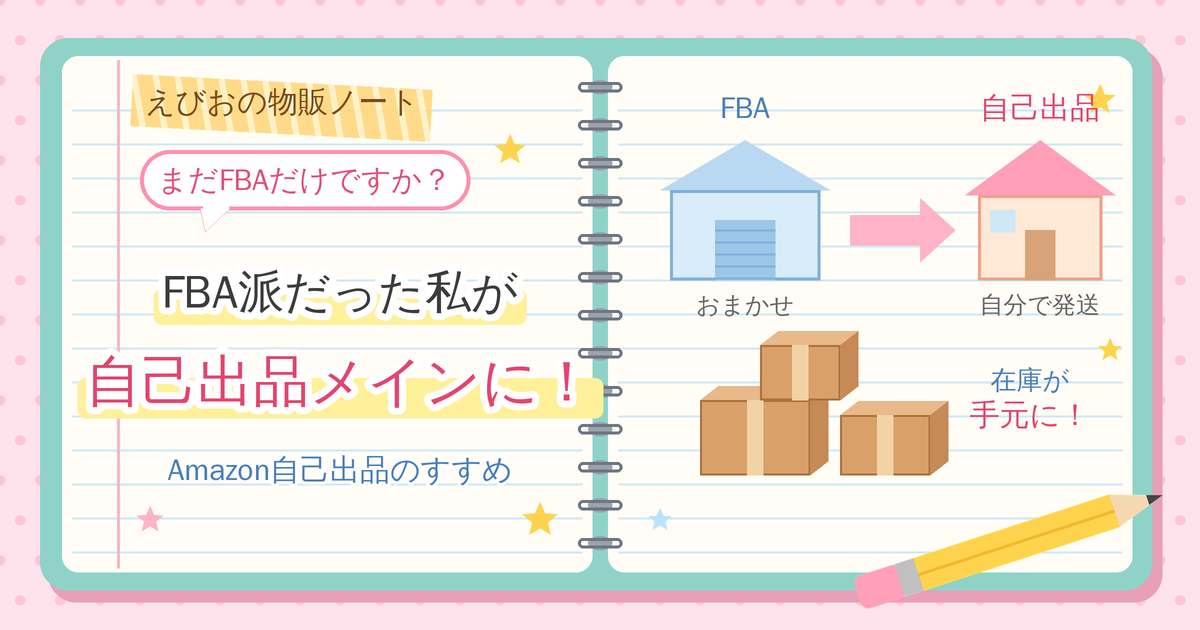
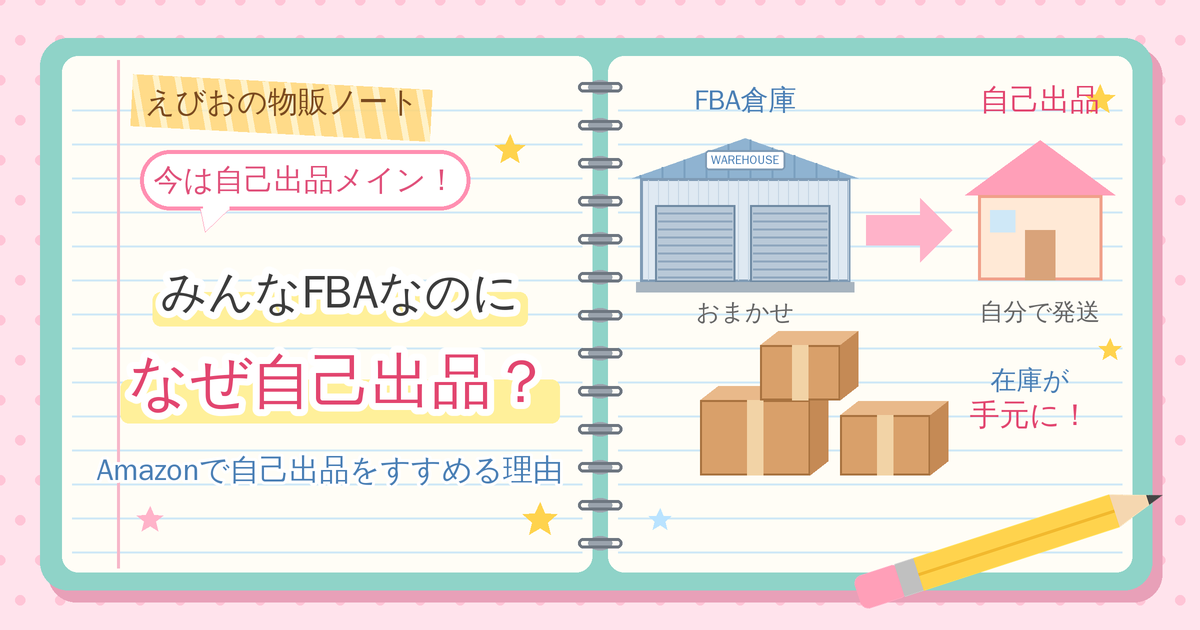
自己出品のすすめ：えびおの体験を入れ、タイトルを3案目に。アイキャッチを倉庫の絵に描き直し
Claude-Session: https://claude.ai/code/session_01Kz2YtFYjgrN5FwR973HB32

diff --git a/posts/2026-10-23-jiko-shuppin.html b/posts/2026-10-23-jiko-shuppin.html
@@ -1,8 +1,8 @@
 <!--
-タイトル案：
-1. FBAメインだった私が、今は自己出品メイン！Amazon自己出品のすすめ
-2. Amazonせどりは自己出品が面白い！FBA派だったえびおが乗りかえた理由
-3. みんなFBAなのに、なぜ自己出品？Amazonで自己出品をすすめる理由
+決まったタイトル：みんなFBAなのに、なぜ自己出品？Amazonで自己出品をすすめる理由
+タイトル案1：FBAメインだった私が、今は自己出品メイン！Amazon自己出品のすすめ
+タイトル案2：Amazonせどりは自己出品が面白い！FBA派だったえびおが乗りかえた理由
+タイトル案3：みんなFBAなのに、なぜ自己出品？Amazonで自己出品をすすめる理由
 カテゴリー：せどり（4）
 スラッグ：jiko-shuppin
 -->
@@ -84,11 +84,15 @@
 <!-- /wp:list -->
 
 <!-- wp:paragraph -->
-<p>特に、昼間は本業がある副業の人にとって「発送しなくていい」のは大きいです。仕入れと納品だけに集中できるので、時間がない人ほど助かります。</p>
+<p>私も副業のころは、FBAにずいぶん助けられました。一度倉庫に送ってしまえば、あとは全部Amazonがやってくれます。</p>
 <!-- /wp:paragraph -->
 
 <!-- wp:paragraph -->
-<p><mark style="background-color:rgba(0, 0, 0, 0);color:#c00000" class="has-inline-color"><strong>【要確認：ここにえびおの体験（副業のころ、FBAで助かったこと）】</strong></mark></p>
+<p>どこかに出かけていても、注文が入ってあたふたすることはまったくありません。半分自動のようなものなので、時間の面では本当にFBAでよかったと思っています。</p>
+<!-- /wp:paragraph -->
+
+<!-- wp:paragraph -->
+<p>昼間は本業がある副業の人なら、<mark style="background-color:#fff09a" class="has-inline-color">FBAを使うのは、むしろ当然</mark>だと感じます。</p>
 <!-- /wp:paragraph -->
 
 <!-- wp:html -->
@@ -99,114 +103,144 @@
 <p>ただし、FBAは便利なぶん、手数料がかかります。商品を発送してもらう「配送代行手数料」や、倉庫に置いておく「在庫保管手数料」などです。</p>
 <!-- /wp:paragraph -->
 
-<!-- wp:paragraph -->
-<p>2026年には、標準サイズの配送代行手数料が少し下がった一方で、12か月より長く倉庫にある商品には「長期在庫追加手数料」がかかるようになりました。<mark style="background-color:rgba(0, 0, 0, 0);color:#c00000" class="has-inline-color"><strong>【要確認：手数料の改定の中身と時期が今も同じか（セラーセントラルのお知らせで確認）】</strong></mark></p>
-<!-- /wp:paragraph -->
-
 <!-- wp:heading -->
 <h2 class="wp-block-heading">自己出品のメリット</h2>
 <!-- /wp:heading -->
 
 <!-- wp:paragraph -->
-<p>ここからが本題です。自己出品には、FBAにはない面白さがあります。</p>
+<p>ここからが本題です。自己出品には、FBAにはないよさがあります。</p>
 <!-- /wp:paragraph -->
 
 <!-- wp:heading {"level":3} -->
-<h3 class="wp-block-heading">① FBAの手数料がかからず、利益が残りやすい</h3>
+<h3 class="wp-block-heading">① 納品しなくていいので、慣れればこっちが楽</h3>
 <!-- /wp:heading -->
 
 <!-- wp:paragraph -->
-<p>自己出品なら、FBAの配送代行手数料や在庫保管手数料はかかりません。そのかわり送料は自分で払いますが、商品によっては手元に残るお金が多くなります。</p>
+<p>FBAは、商品にラベルを貼って箱に詰め、倉庫に送って、受け取ってもらうまで販売できません。自己出品ならFBAに納品しないので、商品が届いたその日から出品できます。</p>
 <!-- /wp:paragraph -->
 
 <!-- wp:paragraph -->
-<p>特に差が出やすいのは、大きい商品・重い商品・ゆっくり売れる商品です。倉庫に長く置くほど保管料がかかるFBAとちがい、自己出品なら「売れるまで待つ」ことができます。</p>
+<p>あとは、注文が入ってから出荷すればいいだけです。時間の面ではFBAのほうが楽ですが、慣れてしまえば、自己出品のほうが楽だと感じるところもあります。</p>
+<!-- /wp:paragraph -->
+
+<!-- wp:paragraph -->
+<p>FBAでは、危険物や、使用期限のある商品（要期限）は、ほかの商品と分けて納品しなければいけません。自己出品なら自分で出荷するので、こうした分け方を気にしなくていいのも楽なところです。</p>
 <!-- /wp:paragraph -->
 
 <!-- wp:heading {"level":3} -->
-<h3 class="wp-block-heading">② 仕入れたらすぐに売り始められる</h3>
+<h3 class="wp-block-heading">② 返品が本当に少なくなった</h3>
 <!-- /wp:heading -->
 
 <!-- wp:paragraph -->
-<p>FBAは、商品にラベルを貼って箱に詰め、倉庫に送って、受け取ってもらうまで販売できません。セールの時期などは、倉庫での受け取りに時間がかかることもあります。</p>
+<p>FBAには、困ったこともいろいろあります。倉庫で商品をなくされて、補てんがとても少なかったこともありました。</p>
 <!-- /wp:paragraph -->
 
 <!-- wp:paragraph -->
-<p>自己出品なら、商品が届いたその日から出品できます。値段が上がっているうちに売りたい商品や、売れどきが短い商品では、このスピードが強みになります。</p>
-<!-- /wp:paragraph -->
-
-<!-- wp:heading {"level":3} -->
-<h3 class="wp-block-heading">③ ほかのお店と在庫を分け合える</h3>
-<!-- /wp:heading -->
-
-<!-- wp:paragraph -->
-<p>FBAに送った商品は、Amazonの倉庫の中にあります。楽天やYahoo!ショッピングで売れても、そのままでは使いにくい在庫です。</p>
+<p>一番大きいのは返品かもしれません。FBAでは、お客さんが少し何か言うと、商品の状態に関係なく返金されてしまうことがあります。</p>
 <!-- /wp:paragraph -->
 
 <!-- wp:paragraph -->
-<p>手元にある在庫なら、Amazonで売れてもほかのお店で売れても、同じ棚から発送できます。私は今、Amazon・楽天・Yahoo!ショッピング・メルカリショップの4店舗で売っていて、在庫はクロスマというツールでまとめて管理しています。</p>
-<!-- /wp:paragraph -->
-
-<!-- wp:paragraph -->
-<p><mark style="background-color:#fff09a;color:#c00000" class="has-inline-color"><strong>多販路で売るなら、自己出品はとても相性がいい</strong></mark>しくみです。</p>
-<!-- /wp:paragraph -->
-
-<!-- wp:heading {"level":3} -->
-<h3 class="wp-block-heading">④ 商品の状態を自分で守れる</h3>
-<!-- /wp:heading -->
-
-<!-- wp:paragraph -->
-<p>自己出品では、梱包も発送も自分でします。だから、商品がどんな状態でお客さんに届くかを、自分の目で確かめられます。</p>
-<!-- /wp:paragraph -->
-
-<!-- wp:paragraph -->
-<p>FBAでは、お客さんから返品された商品が、そのまま在庫に戻ることもあります。自己出品なら、返品された商品を自分で確かめてから、売るかどうかを決められます。</p>
-<!-- /wp:paragraph -->
-
-<!-- wp:heading {"level":3} -->
-<h3 class="wp-block-heading">⑤ FBAでは扱いにくい商品も売れる</h3>
-<!-- /wp:heading -->
-
-<!-- wp:paragraph -->
-<p>FBAには、送れない商品や、条件がきびしい商品があります。たとえば、危険物にあたる商品や、とても大きい商品などです。</p>
-<!-- /wp:paragraph -->
-
-<!-- wp:paragraph -->
-<p>自己出品なら、こうした商品も（Amazonのルールの範囲で）売ることができます。ライバルが少ない商品を見つけやすいのも、面白いところです。<mark style="background-color:rgba(0, 0, 0, 0);color:#c00000" class="has-inline-color"><strong>【要確認：FBAで扱えない商品の今のルール】</strong></mark></p>
-<!-- /wp:paragraph -->
-
-<!-- wp:heading {"level":3} -->
-<h3 class="wp-block-heading">気をつけること</h3>
-<!-- /wp:heading -->
-
-<!-- wp:paragraph -->
-<p>もちろん、自己出品にも大変なところはあります。きれいごとだけにならないように、書いておきます。</p>
-<!-- /wp:paragraph -->
-
-<!-- wp:list -->
-<ul class="wp-block-list"><!-- wp:list-item -->
-<li>注文が入るたびに、梱包と発送の手間がかかる</li>
-<!-- /wp:list-item -->
-
-<!-- wp:list-item -->
-<li>在庫を置く場所がいる</li>
-<!-- /wp:list-item -->
-
-<!-- wp:list-item -->
-<li>発送が遅れると、アカウントの評価が下がる</li>
-<!-- /wp:list-item -->
-
-<!-- wp:list-item -->
-<li>プライムマークがないと、FBAの出品者にカートを取られやすい</li>
-<!-- /wp:list-item --></ul>
-<!-- /wp:list -->
-
-<!-- wp:paragraph -->
-<p>自己発送でもプライムマークを付けられる「マケプレプライム」というしくみもあります。ただし、土日も出荷するなど条件がきびしいので、よく確かめてから申し込みましょう。<mark style="background-color:rgba(0, 0, 0, 0);color:#c00000" class="has-inline-color"><strong>【要確認：マケプレプライムの今の条件】</strong></mark></p>
+<p>ひどいものだと、ほとんど使い終わった育毛剤が「効果がなかった」という理由で返品されてきました。</p>
 <!-- /wp:paragraph -->
 
 <!-- wp:html -->
-<div class="speech-wrap sb-id-1 sbs-stn sbp-l sbis-sb cf"><div class="speech-person"><figure class="speech-icon"><img class="speech-icon-image" src="https://iseebio.jp/wp-content/uploads/2026/10/ebio-magao.png" alt="えびお（真顔）" width="160" height="160" /></figure><div class="speech-name">えびお</div></div><div class="speech-balloon"><p>発送の遅れは、アカウントの評価に直結します。ここだけは気をつけてください。</p></div></div>
+<div class="speech-wrap sb-id-1 sbs-stn sbp-l sbis-sb cf"><div class="speech-person"><figure class="speech-icon"><img class="speech-icon-image" src="https://iseebio.jp/wp-content/uploads/2026/10/ebio-punpun.png" alt="えびお（ぷんぷん）" width="160" height="160" /></figure><div class="speech-name">えびお</div></div><div class="speech-balloon"><p>ほとんど空っぽで返ってきても、もう売れません……。</p></div></div>
+<!-- /wp:html -->
+
+<!-- wp:paragraph -->
+<p>自己出品なら、返品の対応も自分たちでします。お客さんが言えばそのまま通ってしまうFBAとちがい、<mark style="background-color:#fff09a;color:#c00000" class="has-inline-color"><strong>返品は本当に少なくなりました</strong></mark>。</p>
+<!-- /wp:paragraph -->
+
+<!-- wp:paragraph -->
+<p>もちろん、自分で商品を入れまちがえたときなどは、クレームが来てもしかたありません。そこは自分の責任です。</p>
+<!-- /wp:paragraph -->
+
+<!-- wp:heading {"level":3} -->
+<h3 class="wp-block-heading">③ 大きい商品も、保管料を気にせず置いておける</h3>
+<!-- /wp:heading -->
+
+<!-- wp:paragraph -->
+<p>FBAでは、大型の商品や、長く倉庫にある商品ほど、在庫保管手数料がかかります。</p>
+<!-- /wp:paragraph -->
+
+<!-- wp:paragraph -->
+<p>自己出品なら、置く場所さえあればまったく平気です。売れるまで待っても保管料はかからないので、お金の面でもメリットがあります。</p>
+<!-- /wp:paragraph -->
+
+<!-- wp:heading {"level":3} -->
+<h3 class="wp-block-heading">④ FBAに送れない商品も売れる</h3>
+<!-- /wp:heading -->
+
+<!-- wp:paragraph -->
+<p>FBAには、送れない商品や、条件がきびしい商品が結構あります。危険物にあたる商品などです。</p>
+<!-- /wp:paragraph -->
+
+<!-- wp:paragraph -->
+<p>今までFBAで売っていた商品が、ある日いきなり危険物に認定されることもあります。自己出品なら、そうした商品も手元から売り続けることができます。</p>
+<!-- /wp:paragraph -->
+
+<!-- wp:heading {"level":3} -->
+<h3 class="wp-block-heading">⑤ ほかのお店と在庫を分け合える</h3>
+<!-- /wp:heading -->
+
+<!-- wp:paragraph -->
+<p>手元にある在庫なら、Amazonで売れても、楽天やYahoo!ショッピングで売れても、同じ棚から発送できます。</p>
+<!-- /wp:paragraph -->
+
+<!-- wp:paragraph -->
+<p>私は今、Amazon・楽天・Yahoo!ショッピング・メルカリショップの4店舗で売っています。在庫はクロスマというツールでまとめて管理しています。じつはこれが、私が自己出品メインになったいちばんの理由につながっています。</p>
+<!-- /wp:paragraph -->
+
+<!-- wp:heading -->
+<h2 class="wp-block-heading">自己出品の大変なところ</h2>
+<!-- /wp:heading -->
+
+<!-- wp:paragraph -->
+<p>もちろん、自己出品にも大変なところはあります。やってみて感じたことを書いておきます。</p>
+<!-- /wp:paragraph -->
+
+<!-- wp:heading {"level":3} -->
+<h3 class="wp-block-heading">カートが取りづらい</h3>
+<!-- /wp:heading -->
+
+<!-- wp:paragraph -->
+<p>基本的には、FBAのほうがカートを取りやすいです。自己出品でカートを取ろうとすると、値段を最安値にしないときびしいと感じます。</p>
+<!-- /wp:paragraph -->
+
+<!-- wp:paragraph -->
+<p>ただ、セールなどのイベントのときは、FBAの倉庫が混み合います。そんなときは逆に、自己出品のほうがカートを取れることもあります。</p>
+<!-- /wp:paragraph -->
+
+<!-- wp:heading {"level":3} -->
+<h3 class="wp-block-heading">評価が集まりにくく、悪い評価が消しにくい</h3>
+<!-- /wp:heading -->
+
+<!-- wp:paragraph -->
+<p>自己出品は、お客さんからの評価がなかなか集まりません。</p>
+<!-- /wp:paragraph -->
+
+<!-- wp:paragraph -->
+<p>しかも、悪い評価が付いたときに、消せないものが多いです。FBAなら、ある程度悪い評価でも消してもらえることが多いので、ここは大きなちがいです。</p>
+<!-- /wp:paragraph -->
+
+<!-- wp:heading {"level":3} -->
+<h3 class="wp-block-heading">梱包の手間とプライムマーク</h3>
+<!-- /wp:heading -->
+
+<!-- wp:paragraph -->
+<p>注文が入るたびに梱包して発送するので、その手間はどうしてもかかります。</p>
+<!-- /wp:paragraph -->
+
+<!-- wp:paragraph -->
+<p>自己発送でもプライムマークを付けられる「マケプレプライム」というしくみもあります。ただし、お客さんに何日までに届けなければいけない、という条件がきびしいです。</p>
+<!-- /wp:paragraph -->
+
+<!-- wp:paragraph -->
+<p>たとえば関東から送ると、北海道には2日で届きません。私のところからだと、ほとんど使えないのが正直なところです。名古屋のような、日本の真ん中あたりから送るのでないと、むずかしいと思います。</p>
+<!-- /wp:paragraph -->
+
+<!-- wp:html -->
+<div class="speech-wrap sb-id-1 sbs-stn sbp-l sbis-sb cf"><div class="speech-person"><figure class="speech-icon"><img class="speech-icon-image" src="https://iseebio.jp/wp-content/uploads/2026/10/ebio-komatta.png" alt="えびお（困った）" width="160" height="160" /></figure><div class="speech-name">えびお</div></div><div class="speech-balloon"><p>カートと評価は、自己出品のいちばんの弱点です。</p></div></div>
 <!-- /wp:html -->
 
 <!-- wp:heading -->
@@ -214,23 +248,51 @@
 <!-- /wp:heading -->
 
 <!-- wp:paragraph -->
-<p>私も、長いあいだFBAをメインにやってきました。それが今では、自己出品がほとんどメインです。</p>
+<p>自己出品を使うようになった一つの理由は、多販路（Amazon以外のお店でも売ること）を始めたことです。</p>
 <!-- /wp:paragraph -->
 
 <!-- wp:paragraph -->
-<p><mark style="background-color:rgba(0, 0, 0, 0);color:#c00000" class="has-inline-color"><strong>【要確認：ここにえびおの体験（自己出品を使うようになったきっかけ）】</strong></mark></p>
+<p>昔は、楽天やYahoo!ショッピングで売れた商品も、FBAの倉庫から発送していました。「マルチチャネル」という、Amazonの倉庫からほかのお店の注文を発送してくれるサービスです。この形で、長い期間やっていました。</p>
 <!-- /wp:paragraph -->
 
 <!-- wp:paragraph -->
-<p><mark style="background-color:rgba(0, 0, 0, 0);color:#c00000" class="has-inline-color"><strong>【要確認：ここにえびおの体験（自己出品メインにしてみて、変わったこと・面白いと感じたこと）】</strong></mark></p>
+<p>当時はAmazonがメインで、楽天やYahoo!ショッピングは、ちょこっとおまけでやっているくらいでした。</p>
 <!-- /wp:paragraph -->
 
 <!-- wp:paragraph -->
-<p><mark style="background-color:rgba(0, 0, 0, 0);color:#c00000" class="has-inline-color"><strong>【要確認：ここにえびおの体験（今もFBAを使っている商品があれば、その使い分け）】</strong></mark></p>
+<p>ところが、マルチチャネルは繁忙期になると発送が遅れます。楽天やYahoo!ショッピングの出荷の期日に、間に合わないことがありました。</p>
+<!-- /wp:paragraph -->
+
+<!-- wp:paragraph -->
+<p>マルチチャネルの送料も、けっして安くありません。あまりよくないな、とは思っていました。</p>
+<!-- /wp:paragraph -->
+
+<!-- wp:paragraph -->
+<p>それでも、全部を自己出品に変えようとまでは思いませんでした。決め手になったのは、マルチチャネルの誤配送です。</p>
+<!-- /wp:paragraph -->
+
+<!-- wp:paragraph -->
+<p>お客さんとはちがうところに商品を送られてしまったのに、仕入れ値8,640円の商品で、補てんは7,678円だけでした。しかも、送料も手数料も戻ってきませんでした。</p>
 <!-- /wp:paragraph -->
 
 <!-- wp:html -->
-<div class="speech-wrap sb-id-1 sbs-stn sbp-l sbis-sb cf"><div class="speech-person"><figure class="speech-icon"><img class="speech-icon-image" src="https://iseebio.jp/wp-content/uploads/2026/10/ebio-koreda.png" alt="えびお（これだ！）" width="160" height="160" /></figure><div class="speech-name">えびお</div></div><div class="speech-balloon"><p>【要確認：えびおのひとこと】</p></div></div>
+<div class="speech-wrap sb-id-1 sbs-stn sbp-l sbis-sb cf"><div class="speech-person"><figure class="speech-icon"><img class="speech-icon-image" src="https://iseebio.jp/wp-content/uploads/2026/10/ebio-ikari.png" alt="えびお（怒り）" width="160" height="160" /></figure><div class="speech-name">えびお</div></div><div class="speech-balloon"><p>まちがえて送ったのはそっちなのに、なんだそれ！と思いました。</p></div></div>
+<!-- /wp:html -->
+
+<!-- wp:paragraph -->
+<p>この話は<a href="/mcf-gohaisou/">こちらの記事</a>にくわしく書いています。「こんなの使っていられない」と思い、楽天とYahoo!ショッピングは自己出品で送ることにしました。</p>
+<!-- /wp:paragraph -->
+
+<!-- wp:paragraph -->
+<p>そうなると、手元に在庫を置くことになります。だったら、Amazonも一緒に自己出品で送ったほうが効率がいい。そう考えて、自然と自己出品がメインになっていきました。</p>
+<!-- /wp:paragraph -->
+
+<!-- wp:paragraph -->
+<p>カートや評価の弱点はありますが、<mark style="background-color:#fff09a" class="has-inline-color">自己出品もうまく取り入れていったほうがいい</mark>と、今は思っています。</p>
+<!-- /wp:paragraph -->
+
+<!-- wp:html -->
+<div class="speech-wrap sb-id-1 sbs-stn sbp-l sbis-sb cf"><div class="speech-person"><figure class="speech-icon"><img class="speech-icon-image" src="https://iseebio.jp/wp-content/uploads/2026/10/ebio-koreda.png" alt="えびお（これだ！）" width="160" height="160" /></figure><div class="speech-name">えびお</div></div><div class="speech-balloon"><p>副業の方はFBAメインで、大型や危険物は自己出品で対応する形でいいと思います。ポストに入るような小さいものも、本当は自己出品のほうがいいんですけどね。時間がなければ、FBAメインになってもしかたないかなと思います。</p></div></div>
 <!-- /wp:html -->
 
 <!-- wp:heading -->
@@ -239,24 +301,28 @@
 
 <!-- wp:list -->
 <ul class="wp-block-list"><!-- wp:list-item -->
-<li>FBAは発送をおまかせできて、時間がない副業の人にはとても便利</li>
+<li>FBAは発送をまるごとおまかせできて、時間がない副業の人にはぴったり</li>
 <!-- /wp:list-item -->
 
 <!-- wp:list-item -->
-<li>自己出品は手数料がおさえられ、すぐ売れて、ほかのお店とも在庫を分け合える</li>
+<li>自己出品は、納品がいらず、返品が減り、ほかのお店とも在庫を分け合える</li>
 <!-- /wp:list-item -->
 
 <!-- wp:list-item -->
-<li>FBAメインだった私も、今は自己出品がほとんどメインになった</li>
+<li>えびおは多販路とマルチチャネルの誤配送をきっかけに、自己出品メインになった</li>
 <!-- /wp:list-item --></ul>
 <!-- /wp:list -->
 
 <!-- wp:paragraph -->
-<p>FBAしか使ったことがない人は、まずは何商品かだけでも自己出品で売ってみてください。きっと、FBAとはちがう面白さが見つかると思います。</p>
+<p>FBAしか使ったことがない人は、大型の商品や危険物から、自己出品を取り入れてみてはいかがでしょうか。</p>
 <!-- /wp:paragraph -->
 
 <!-- wp:paragraph -->
 <p>質問や相談があれば、お問い合わせフォームからお気軽にどうぞ。</p>
+<!-- /wp:paragraph -->
+
+<!-- wp:paragraph -->
+<p>あわせて読みたい：<a href="/mcf-gohaisou/">Amazonマルチチャネルで誤配送！補てんも送料も戻らないなんて！！</a></p>
 <!-- /wp:paragraph -->
 
 <!-- wp:paragraph -->

diff --git a/neta.md b/neta.md
@@ -82,5 +82,5 @@
 済・せどりのコンサルは受けたほうがいい？料金のインフレと良いコンサルの見分け方（2026/10/18 下書き：1802番。スラッグ sedori-consul）
 済・ノーブランドのセット品はありかなしか？Amazonでカタログを消されたえびおの答え（2026/10/21 公開：https://iseebio.jp/nobrand-set/ 1809番。スラッグ nobrand-set。有料講座の中身は書かず、えびおの経験と考え＋Amazon公式ルールの表で書いた）
 ・独自カタログの「自社ブランド」編（商標を取ってブランド登録して出す方法）。ノーブランドのセット品の記事（nobrand-set）と分けて書く
-済・FBAメインだった私が、今は自己出品メイン！Amazon自己出品のすすめ（2026/10/23 下書き：1841番。スラッグ jiko-shuppin。自己出品メインになった理由はえびおが追記する）
+済・みんなFBAなのに、なぜ自己出品？Amazonで自己出品をすすめる理由（2026/10/23 下書き：1841番。スラッグ jiko-shuppin。えびおの体験を入れて要確認を消した。アイキャッチは倉庫の絵に描き直し）
 ・
